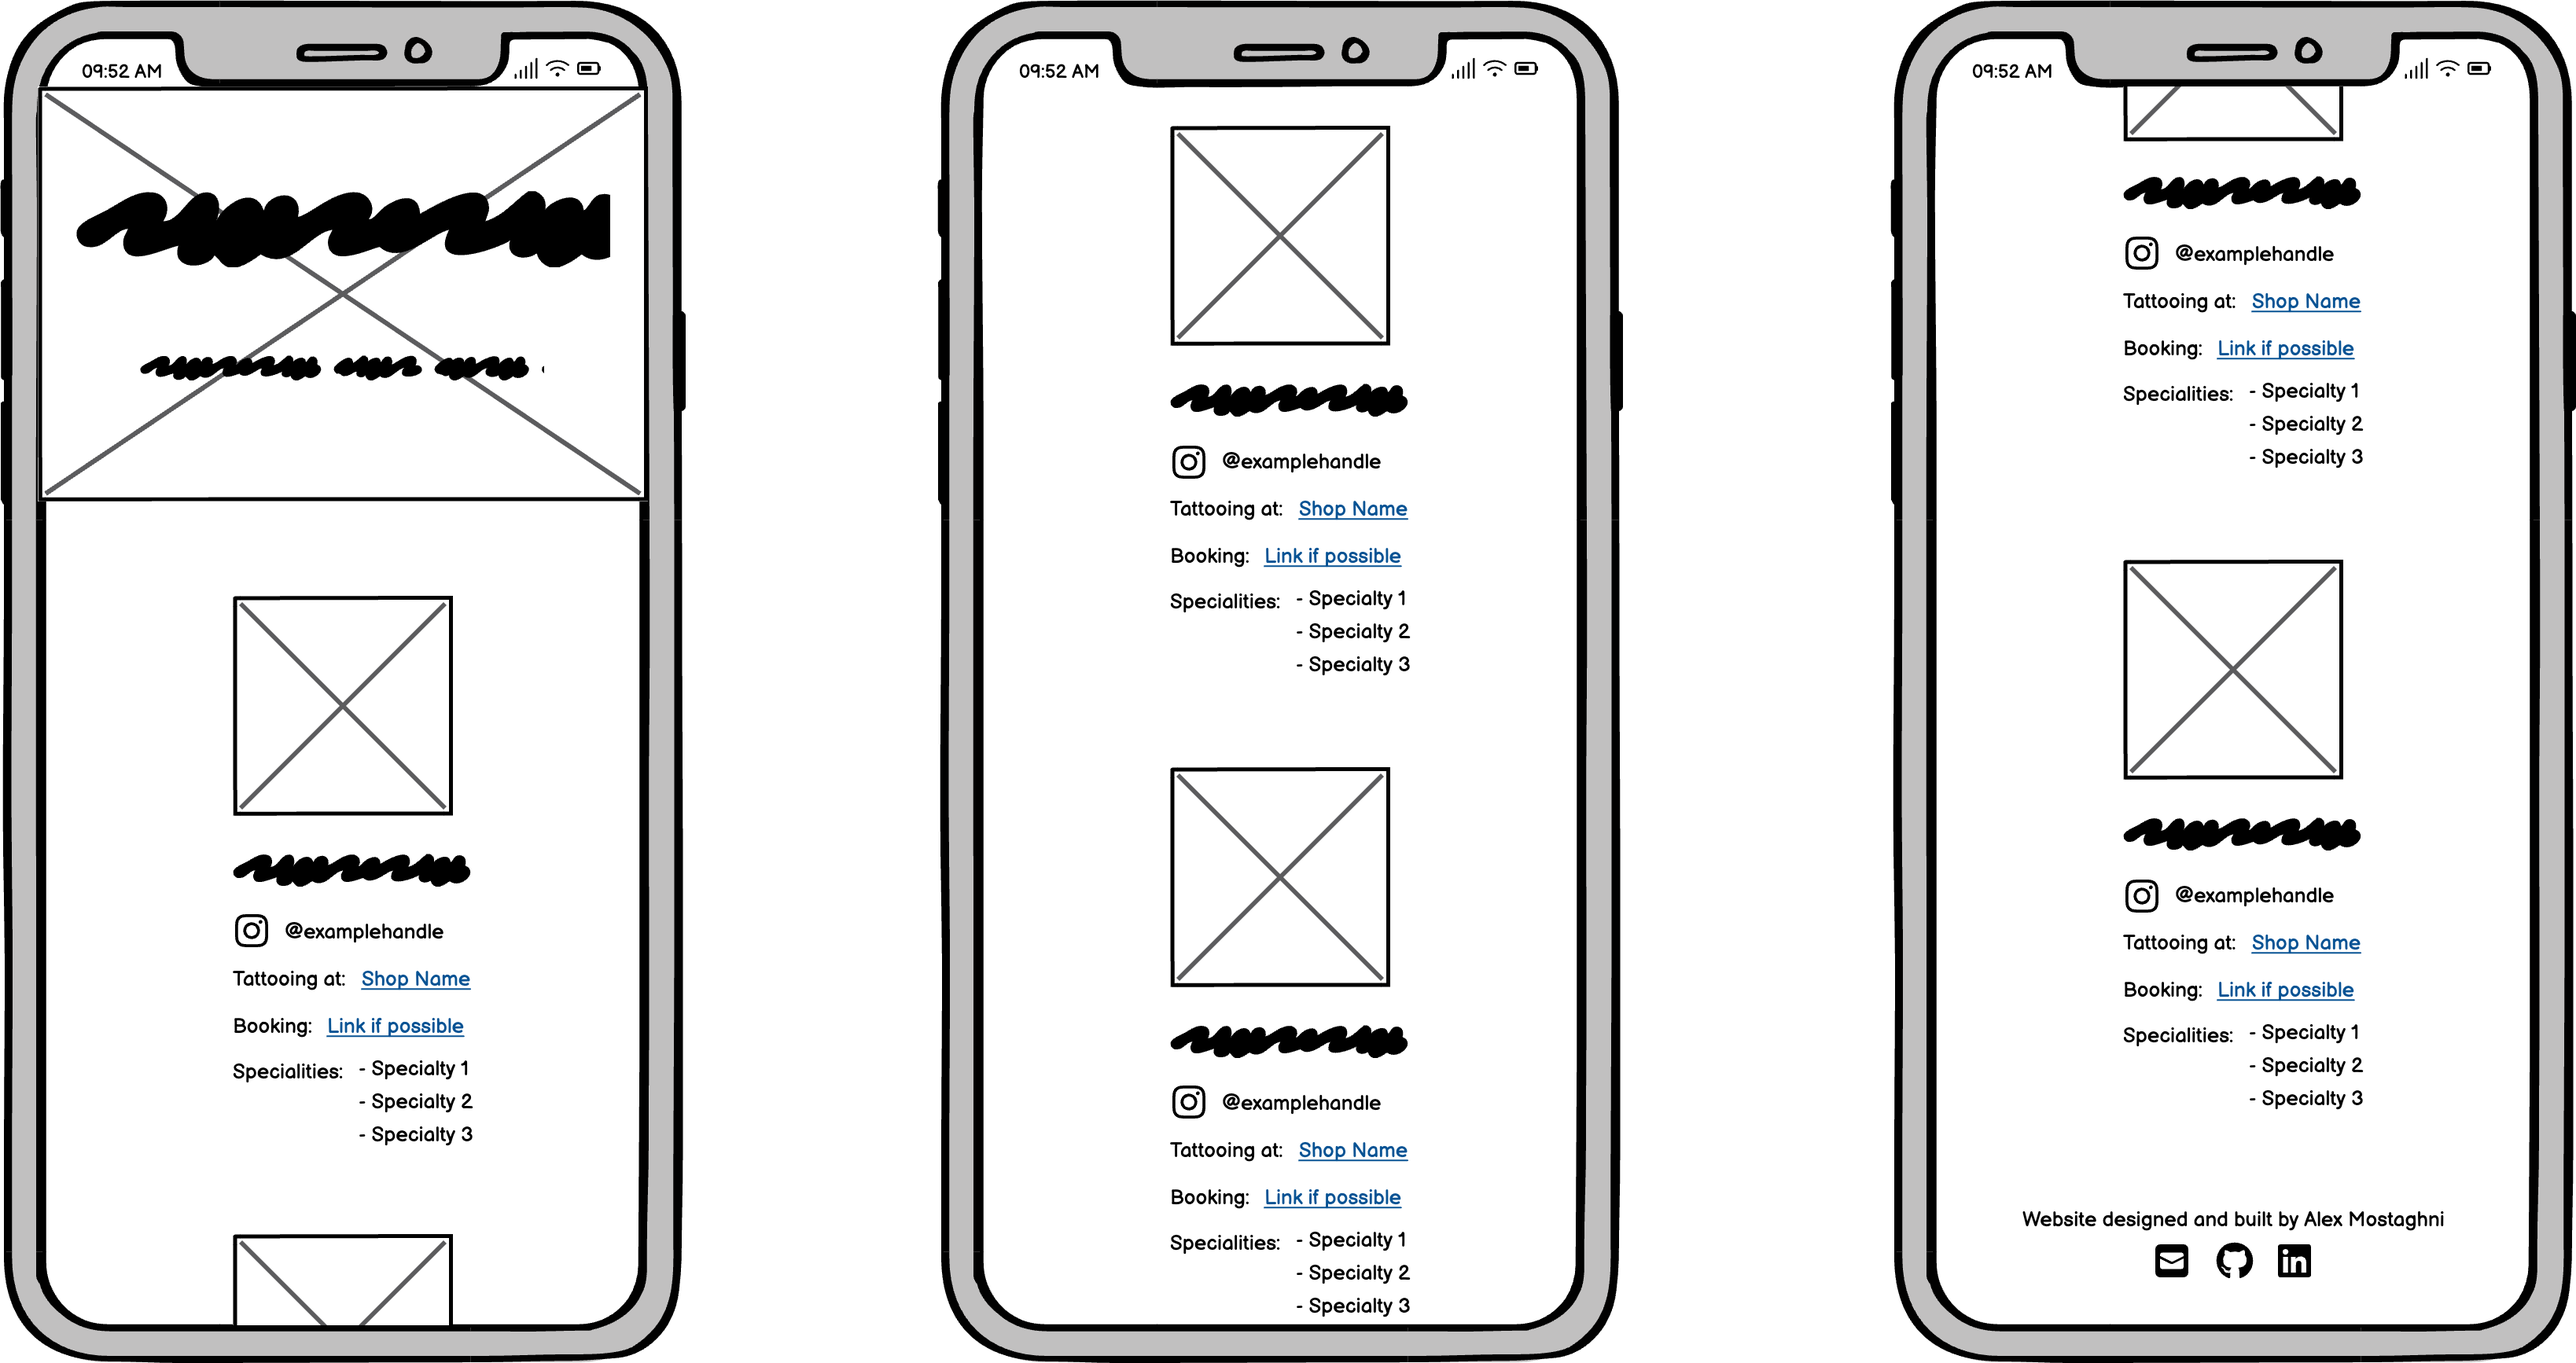
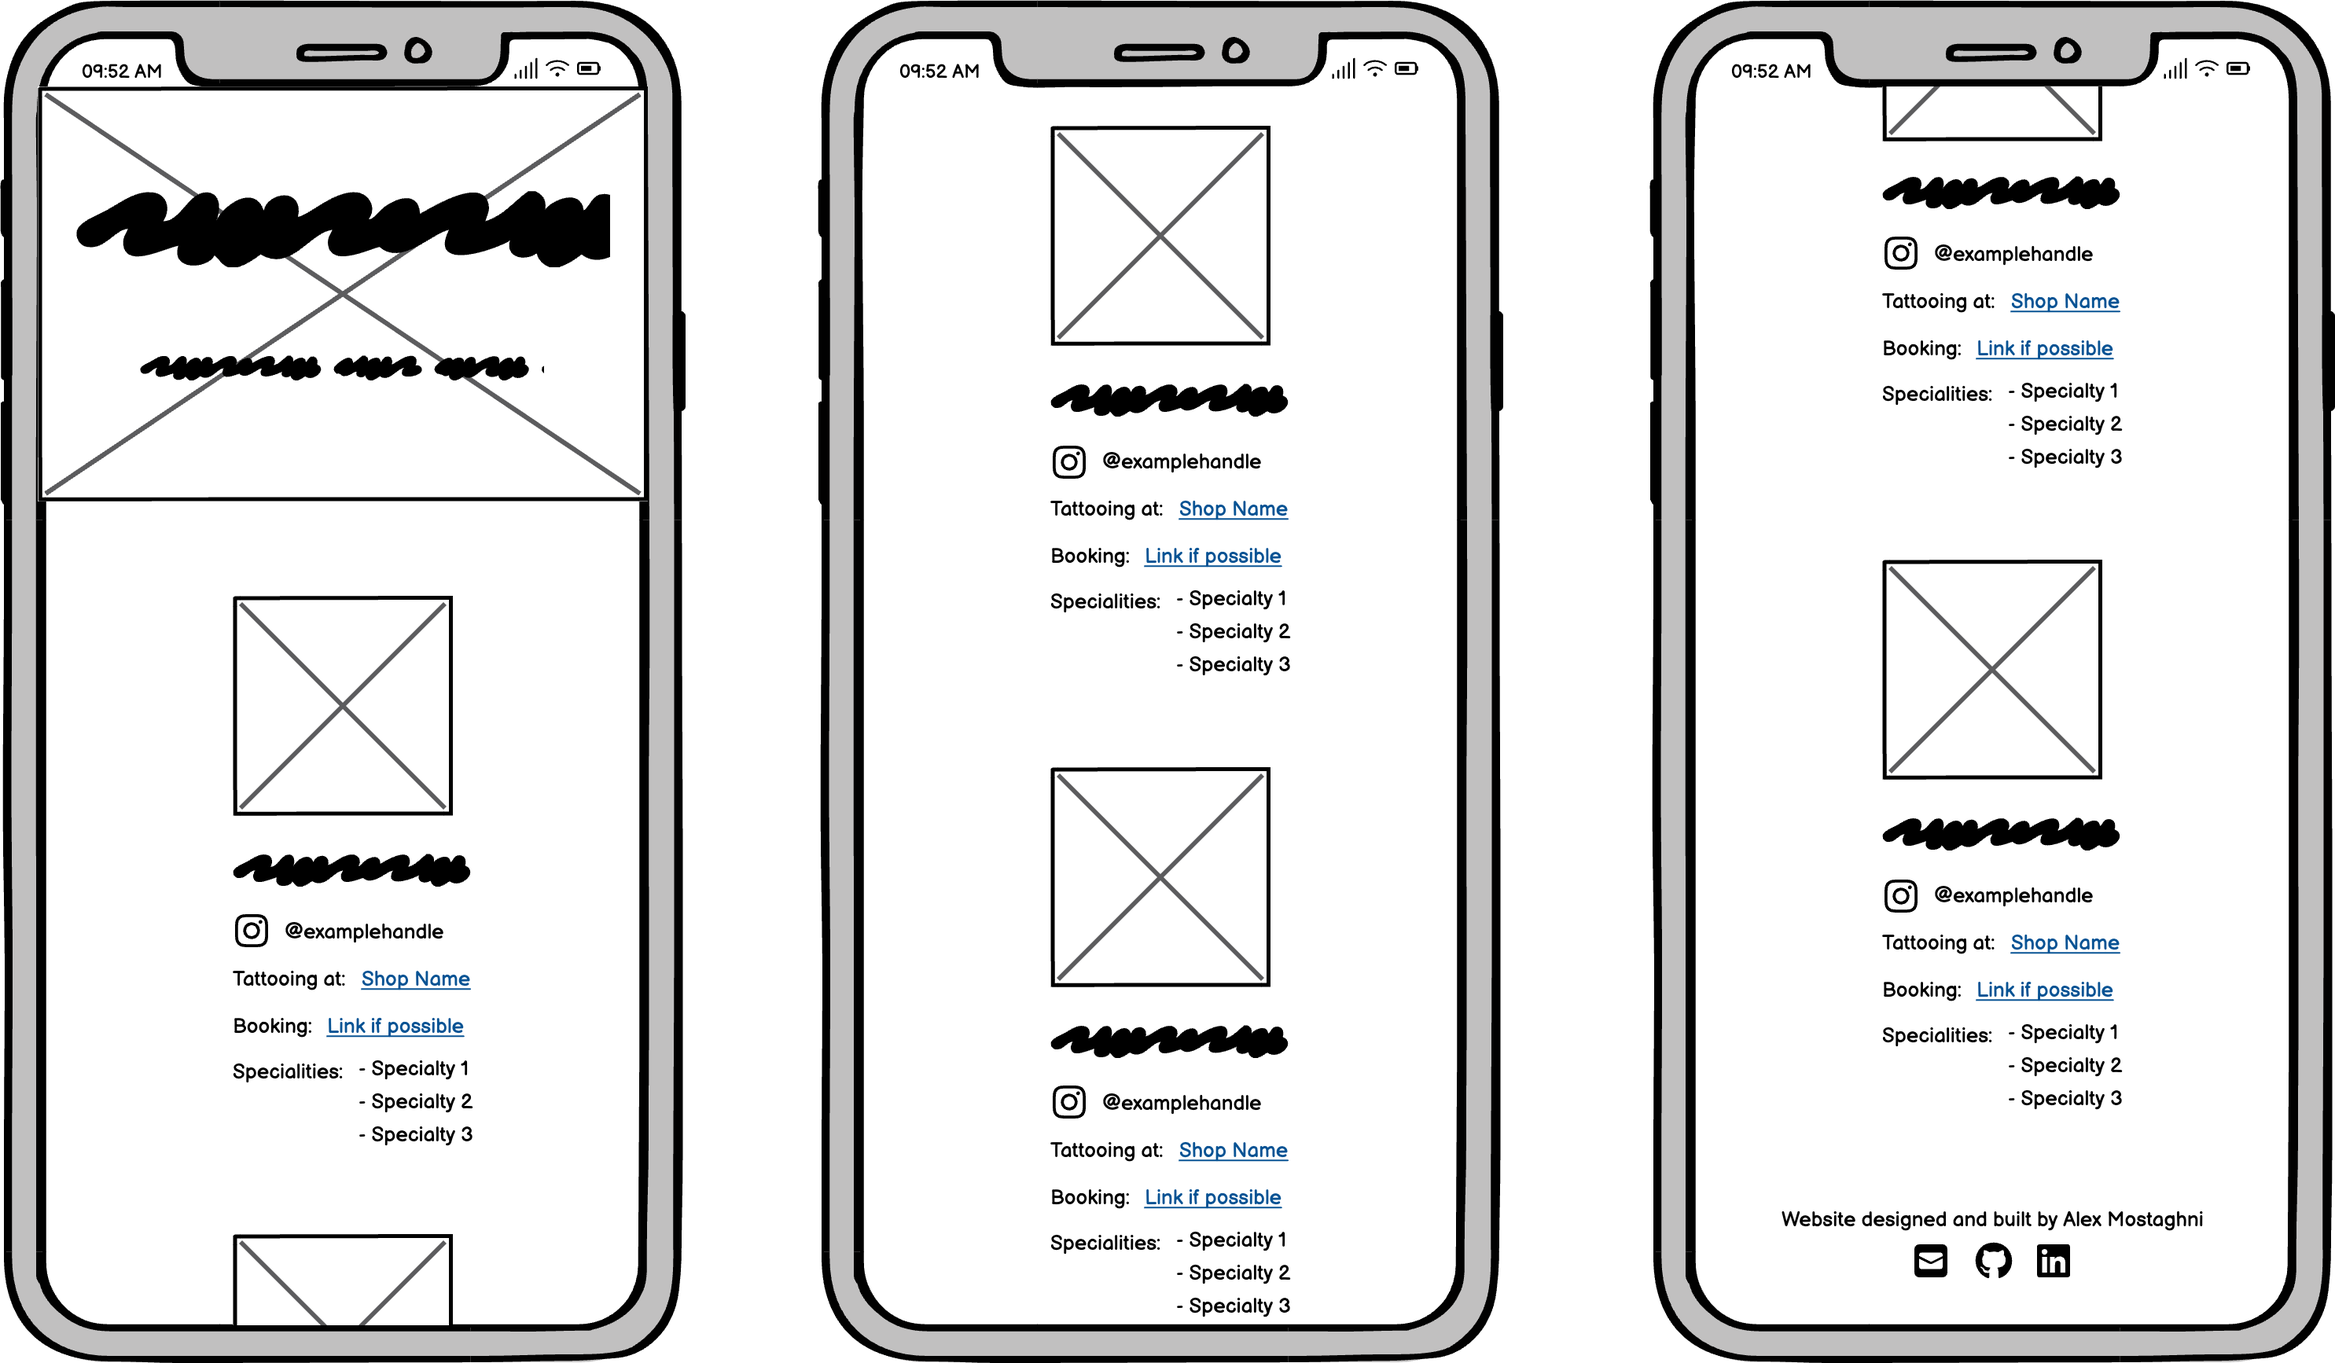
Added footer content, created and linked style.css, resized wireframes, and added colons to h3s

diff --git a/public_html/documentation/milestone-2.html b/public_html/documentation/milestone-2.html
@@ -3,6 +3,7 @@
 <head>
     <meta charset="UTF-8">
     <title>Alex's PWP: ABQ Tattoo*hers</title>
+    <link rel="stylesheet" href="style.css">
 </head>
 <body>
     <h1>ABQ Tattoo*hers: PWP Milestone 2</h1>
@@ -20,21 +21,21 @@
         </ul>
 
     <!-- TATTOO ARTIST DIRECTORY -->
-    <h3>Tattoo Artist Directory</h3>
-        <p>This is a directory, so we're jumping right into the content. Each artist section will have the same information and layout, and will be organized by first name (no last names will be listed). Their name will be in the same font as the title/tag line while the other content will be in a different font and a smaller size. Applicable items in the content will be hyperlinked.</p>
+    <h3>Tattoo Artist Directory:</h3>
+        <p>This is a directory, so we're jumping right into the content (there will be up to 14 artist sections. Each section will have the same information and layout, and will be organized by first name (no last names will be listed). Their name will be in the same font as the title/tag line while the other content will be in a different font and a smaller size. Applicable items in the content will be hyperlinked.</p>
         <p>Wishlist:</p>
         <ul>
             <li>Desktop view: artist name will change color (to match title/tag line) when hovered over</li>
         </ul>
 
     <!-- CONTACT LINKS FOOTER -->
-    <h3>Footer with Contact Links</h3>
-        <p></p>
+    <h3>Footer with Contact Links:</h3>
+        <p>The footer will credit me as the site's designer and builder, as well as provide clickable icons linked to my email address, Git Hub, and LinkedIn.</p>
 
     <!-- WIREFRAMES -->
     <h2>Wireframes</h2>
-        <p><em>Please note there will be more than four artists in the directory. The number recently increased to six and may go up to 14.</em></p>
-        <img src="wireframes/desktop.png" alt="desktop wireframe for abq tattoo hers">
-        <img src="wireframes/mobile.png" alt="mobile wireframes for abq tattoo hers">
+        <p><em>Please note there will be more than four artists in the directory. I didn't want to copy and paste the same content/layout up to 14 times.</em></p>
+        <img id="desktop" src="wireframes/desktop.png" alt="desktop wireframe for abq tattoo hers">
+        <img id="mobile" src="wireframes/mobile.png" alt="mobile wireframes for abq tattoo hers">
 </body>
 </html>

diff --git a/public_html/documentation/style.css b/public_html/documentation/style.css
@@ -1,0 +1,17 @@
+h2 {
+    margin-top: 1.7em;
+}
+
+/* WIREFRAMES */
+
+#desktop {
+    width: 80%;
+    height: auto;
+    margin: 1.7em auto;
+}
+
+#mobile {
+    width: 100%;
+    height: auto;
+    margin: 1.7em auto;
+}
